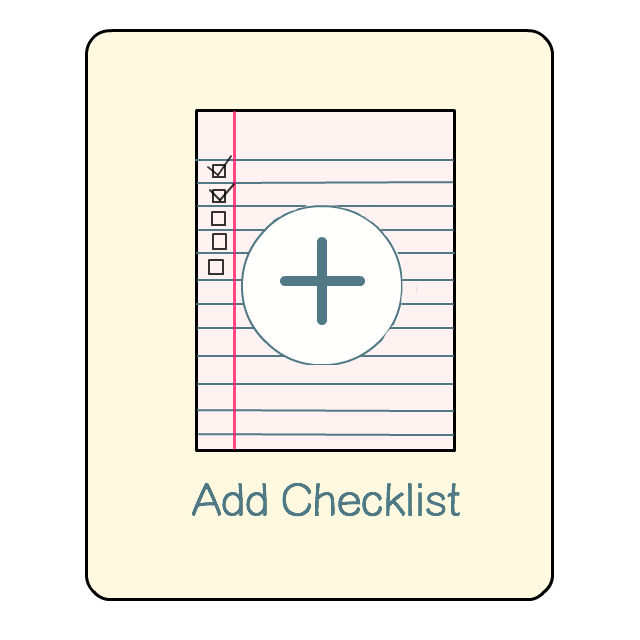
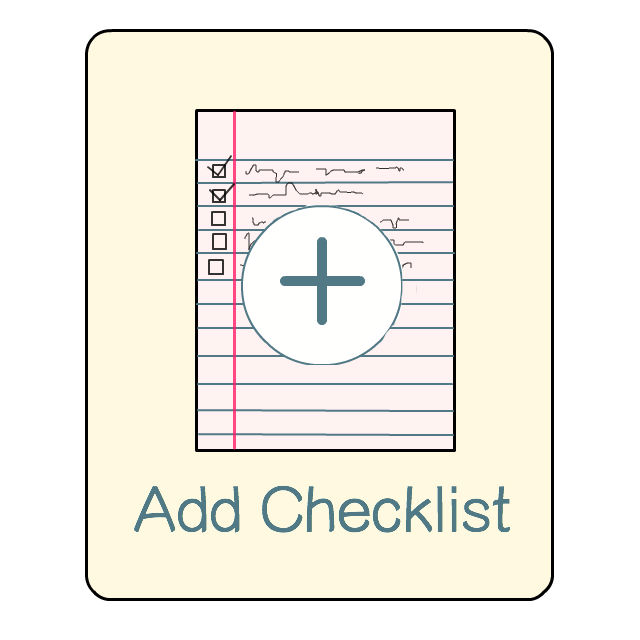
Changed/added images
Made text in button images larger. May change size/color/font later.
Also centered the buttons/corkboard awkwardly, should change in future.

diff --git a/view.html b/view.html
@@ -40,34 +40,39 @@
 
     <div id="title">Welcome to JaneWeb!</div>
 
+    <!-- centers the button line and the corkboard. -->
+    <!-- NOTE: the off-centered-ness of the corkboard was really annoying me -->
+    <!-- but this was the only way I could figure out how to semi-ish fix it -->
+    <center> <!-- <-this thing here -->
     <table id="buttons">
       <tr>
         <td>
-          <div class="button" id="add-webiste"></div>
+          <div class="button" id="add-website"></div>
         </td>
       </tr>
 
       <tr>
         <td>
-          <div class="button" id="add-note"><img src="images/add_note_button.jpg" width="200" height="200"/></div>
+          <div class="button" id="add-note"><img src="images/add_note_button.jpg" width="180" height="180"/></div>
         </td>
       </tr>
 
       <tr>
         <td>
-          <div class="button" id="add-checklist"><img src="images/add_checklist_button.jpg" width="200" height="200"/></div>
+          <div class="button" id="add-checklist"><img src="images/add_checklist_button.jpg" width="180" height="180"/></div>
         </td>
       </tr>
 
       <tr>
         <td>
-          <div class="button" id="add-picture"></div>
+          <div class="button" id="add-picture"><img src="images/add_picture_button.jpg" width="180" height="180"/></div>
         </td>
       </tr>
     </table>
 
     <img id="corkboard" src="corkboard.png" height="550px" alt="corkboard"/>
 
+  </center>
   </body>
 
 

diff --git a/stylesheet.css b/stylesheet.css
@@ -4,7 +4,7 @@
 
 #buttons {
   display: inline-block;
-  width: 200px;
+  margin-top: 0px;
 }
 
 #title {
@@ -12,4 +12,5 @@
   font-size: 30px;
   margin-top: 30px;
   margin-bottom: 30px;
+  color: #517985;
 }
